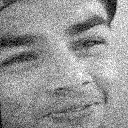
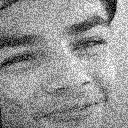
Ahora las imagenes se guardan correctamente dependiendo de la operación que se realizó. Solamente  quedaría el tema de la función del ruido.

diff --git a/Modificar.cs b/Modificar.cs
@@ -12,6 +12,7 @@ namespace MatrixIMG
     {
         public int[,] Transpuesta(int[,] modMatrix) 
         {
+            int[,] tempMatrix = new int[modMatrix.GetLength(0), modMatrix.GetLength(1)];
 
             for (int j = 0; j < modMatrix.GetLength(1); j++) // El arreglo se recorre por cada renglon y después sigue a la siguiente columna
             {
@@ -20,6 +21,7 @@ namespace MatrixIMG
                     int pixel = modMatrix[j, i];
                     char pix = Renderizar(pixel);
                     Console.Write(pix + " ");
+                    tempMatrix[i, j] = modMatrix[j, i];
                 }
                 Console.Write("\n");
             }
@@ -28,13 +30,13 @@ namespace MatrixIMG
             Console.Write("Presione enter para continuar...");
             Console.ReadKey();
 
-            return modMatrix;
+            return tempMatrix;
         }
 
         public int[,] TranspuestaInversa(int[,] modMatrix)
         {
 
-            int tamImg = modMatrix.Length;
+            int[,] tempMatrix = new int[modMatrix.GetLength(0), modMatrix.GetLength(1)];
 
             for (int j = modMatrix.GetLength(1) - 1; j >= 0; j--) // Igual que la transpuesta solamente que el arreglo empieza desde el último elemento del arreglo
             {
@@ -43,6 +45,11 @@ namespace MatrixIMG
                     int pixel = modMatrix[j, i];
                     char pix = Renderizar(pixel);
                     Console.Write(pix + " ");
+                    try
+                    {
+                        tempMatrix[modMatrix.GetLength(0) - j, modMatrix.GetLength(1) - i] = modMatrix[i, j];
+                    }
+                    catch { }
                 }
                 Console.Write("\n");
             }
@@ -51,7 +58,7 @@ namespace MatrixIMG
             Console.Write("Presione enter para continuar...");
             Console.ReadKey();
 
-            return modMatrix;
+            return tempMatrix;
         }
 
         public int[,] GenerarRuido(int[,] modMatrix)

diff --git a/Program.cs b/Program.cs
@@ -54,21 +54,21 @@ namespace MatrixIMG
                         Console.Write("Ingrese el nombre de la imagen: ");
                         archivo = Console.ReadLine();
                         matrix = extractor.ExtIMG(archivo);
-                        operacion.Transpuesta(matrix);
+                        matrix = operacion.Transpuesta(matrix);
                         construccion.GuardarImagenDesdeMatriz("../../imagenes/transpuesta_" + archivo, matrix);
                         Console.Clear();
                         break;
                     case 'b':
                         archivo = Console.ReadLine();
                         matrix = extractor.ExtIMG(archivo);
-                        operacion.TranspuestaInversa(matrix);
+                        matrix = operacion.TranspuestaInversa(matrix);
                         construccion.GuardarImagenDesdeMatriz("../../imagenes/reflexion_" + archivo, matrix);
                         Console.Clear();
                         break;
                     case 'c':
                         archivo = Console.ReadLine();
                         matrix = extractor.ExtIMG(archivo);
-                        operacion.GenerarRuido(matrix);
+                        matrix = operacion.GenerarRuido(matrix);
                         construccion.GuardarImagenDesdeMatriz("../../imagenes/ruido_" + archivo, matrix);
                         break;
                     case 'd':

diff --git a/Construir.cs b/Construir.cs
@@ -11,21 +11,18 @@ namespace MatrixIMG
 
             else
             {
-                int size = matriz.GetLength(0);
-
-                for (int i = 0; i < size; i++)
+                using (Bitmap imagen = new Bitmap(matriz.GetLength(0), matriz.GetLength(1)))
                 {
-                    for (int j = 0; j < size; j++)
+                    for (int i = 0; i < matriz.GetLength(0); i++)
                     {
-                        using (Bitmap imagen = new Bitmap(size, size))
+                        for (int j = 0; j < matriz.GetLength(1); j++)
                         {
                             imagen.SetPixel(j, i, Color.FromArgb(matriz[j, i], matriz[j, i], matriz[j, i]));
-
-                            imagen.Save(rutaArchivo, System.Drawing.Imaging.ImageFormat.Png);
-                            Console.WriteLine($"Imagen guardada en: {rutaArchivo}");
-                            Console.ReadKey();
                         }
                     }
+                    imagen.Save(rutaArchivo, System.Drawing.Imaging.ImageFormat.Png);
+                    Console.WriteLine($"Imagen guardada en: {rutaArchivo}");
+                    Console.ReadKey();
                 }
             }
         }
